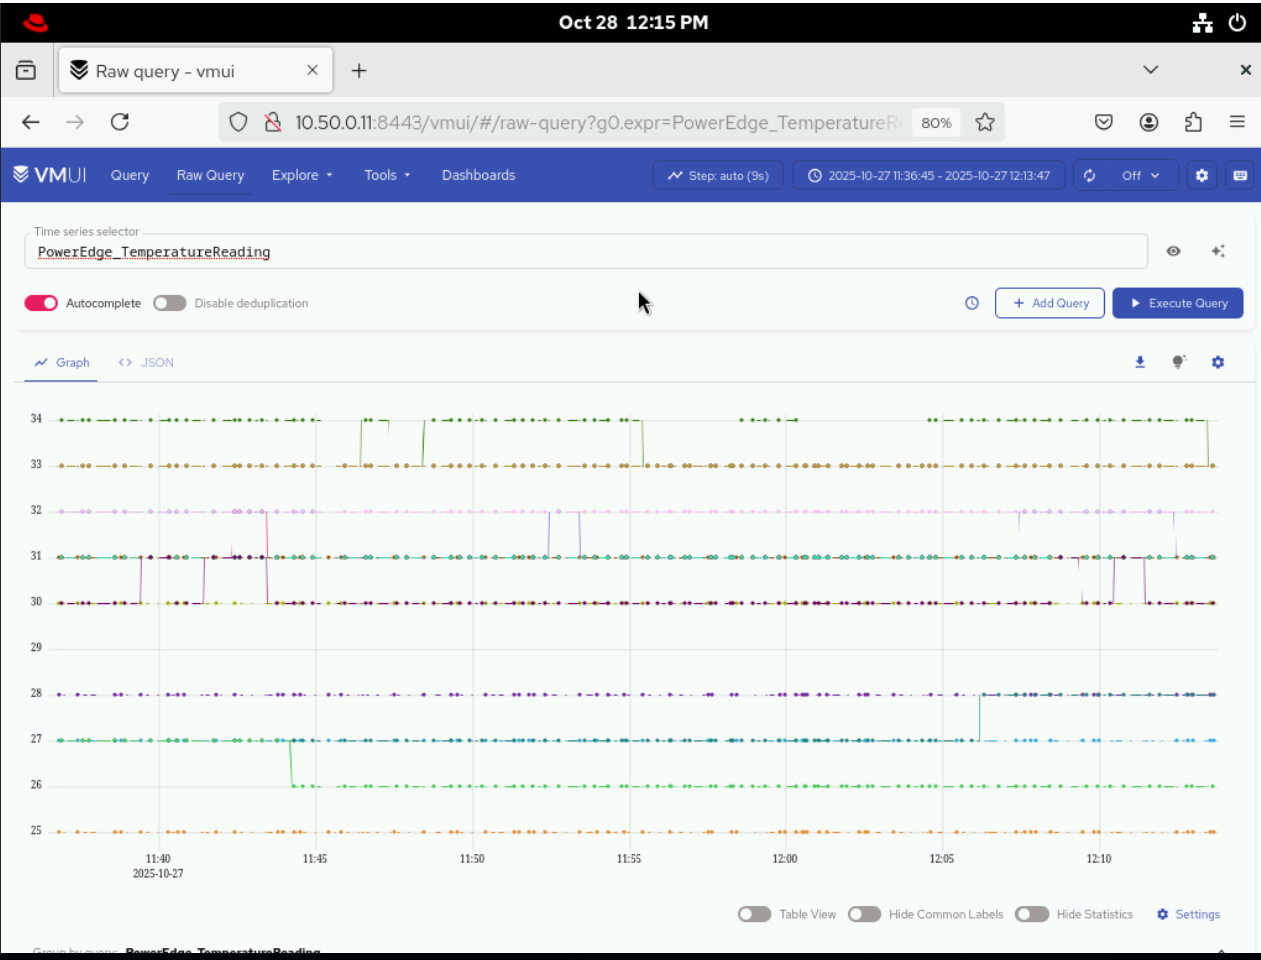
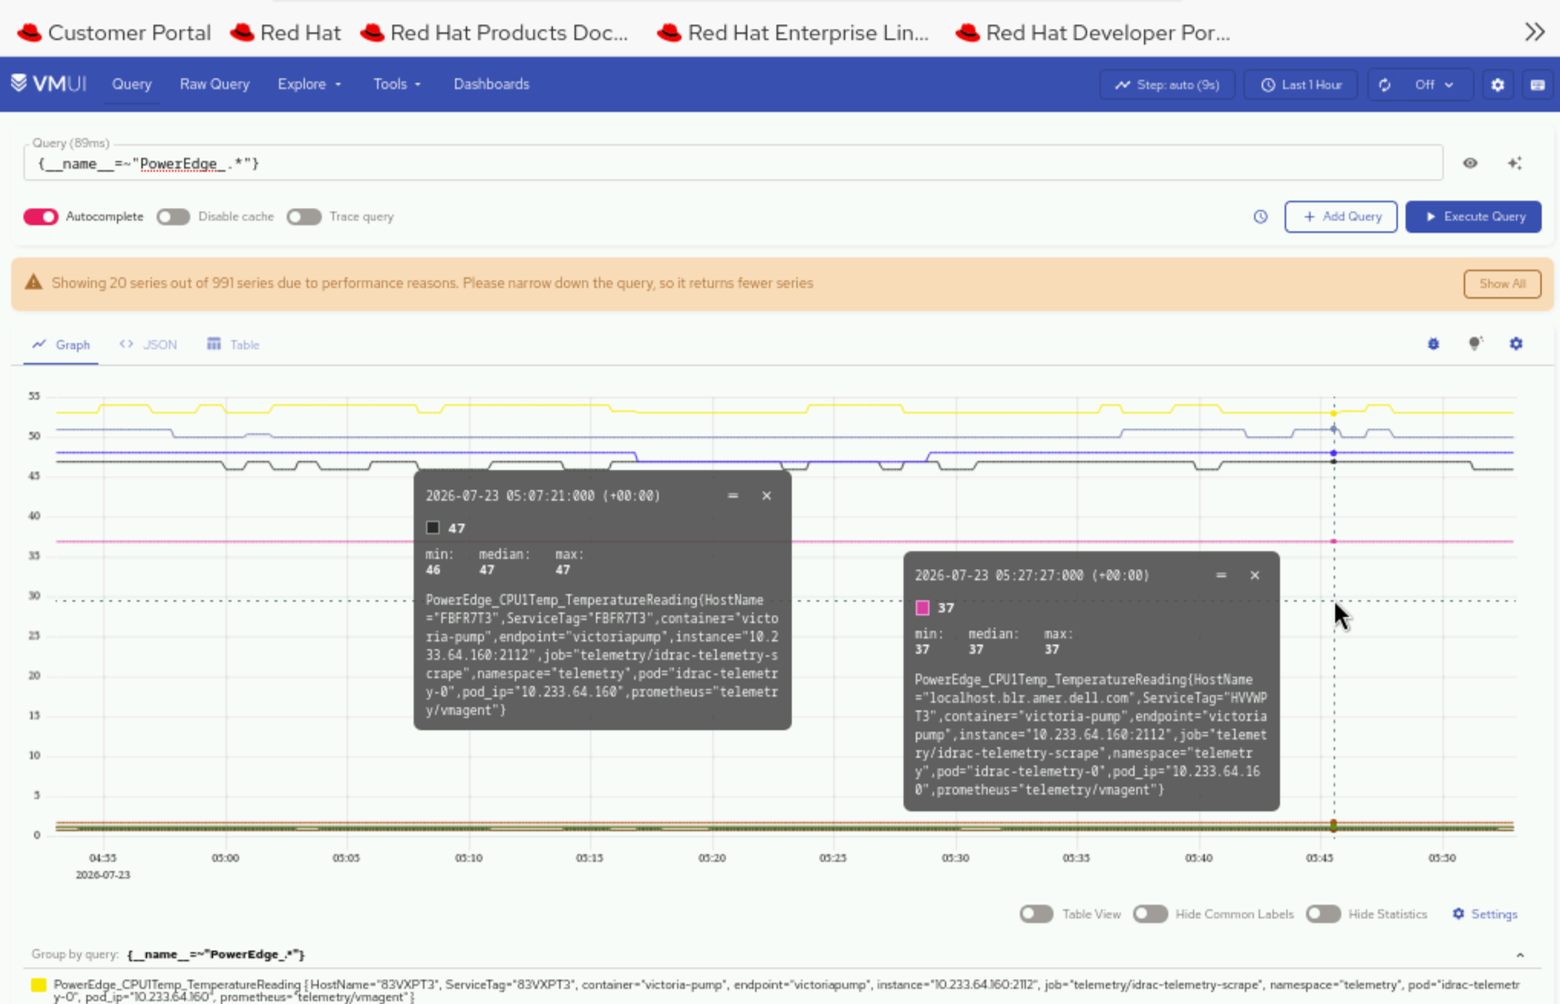
updated idrac telemetry

diff --git a/docs/HowTo/Telemetry/configure_idrac.md b/docs/HowTo/Telemetry/configure_idrac.md
@@ -315,7 +315,11 @@ Use the VMUI to validate that iDRAC telemetry data is being collected and stored
     https://<external vmselect loadbalancer IP>:8481/select/0/vmui
     ```
 
-5. Filter and view telemetry metrics using queries in VMUI. For example, the following `PowerEdge_TemperatureReading` query displays all available metrics:
+5. Verify that metrics are reaching VictoriaMetrics by querying the VMUI. For example, the following query displays iDRAC-related metrics:
+
+    ```
+    {__name__=~"PowerEdge_.*"}
+    ```
 
     ![VictoriaMetrics VMUI](../../assets/images/victoria_metrics_vmui.png)
 
